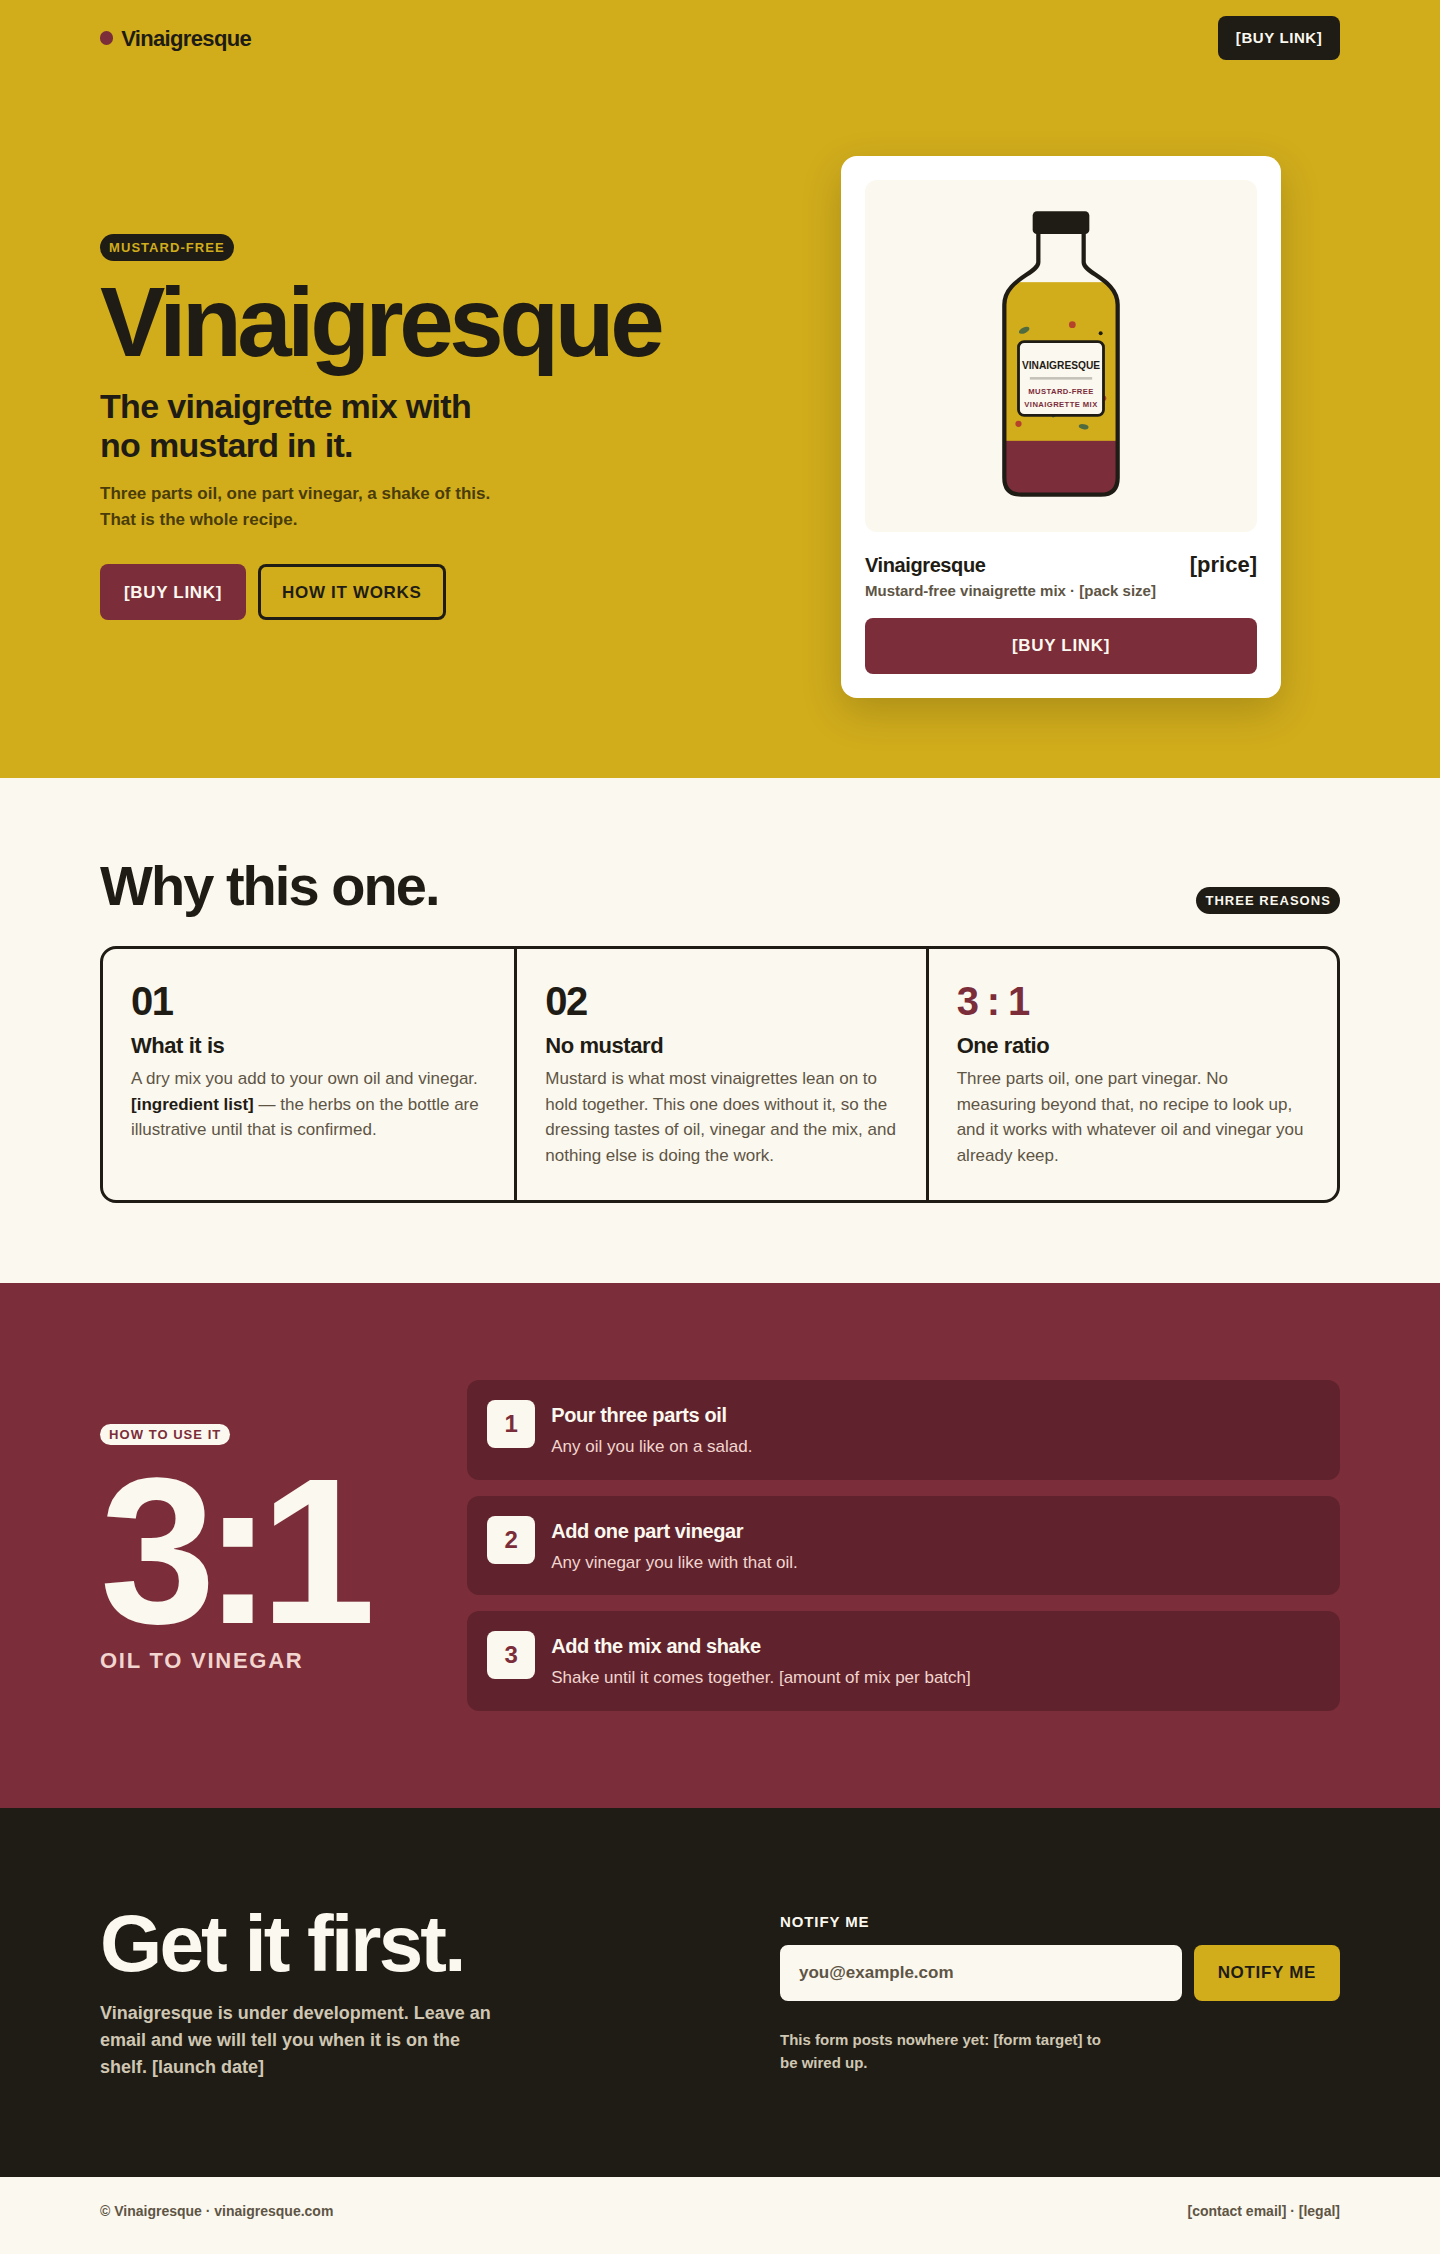
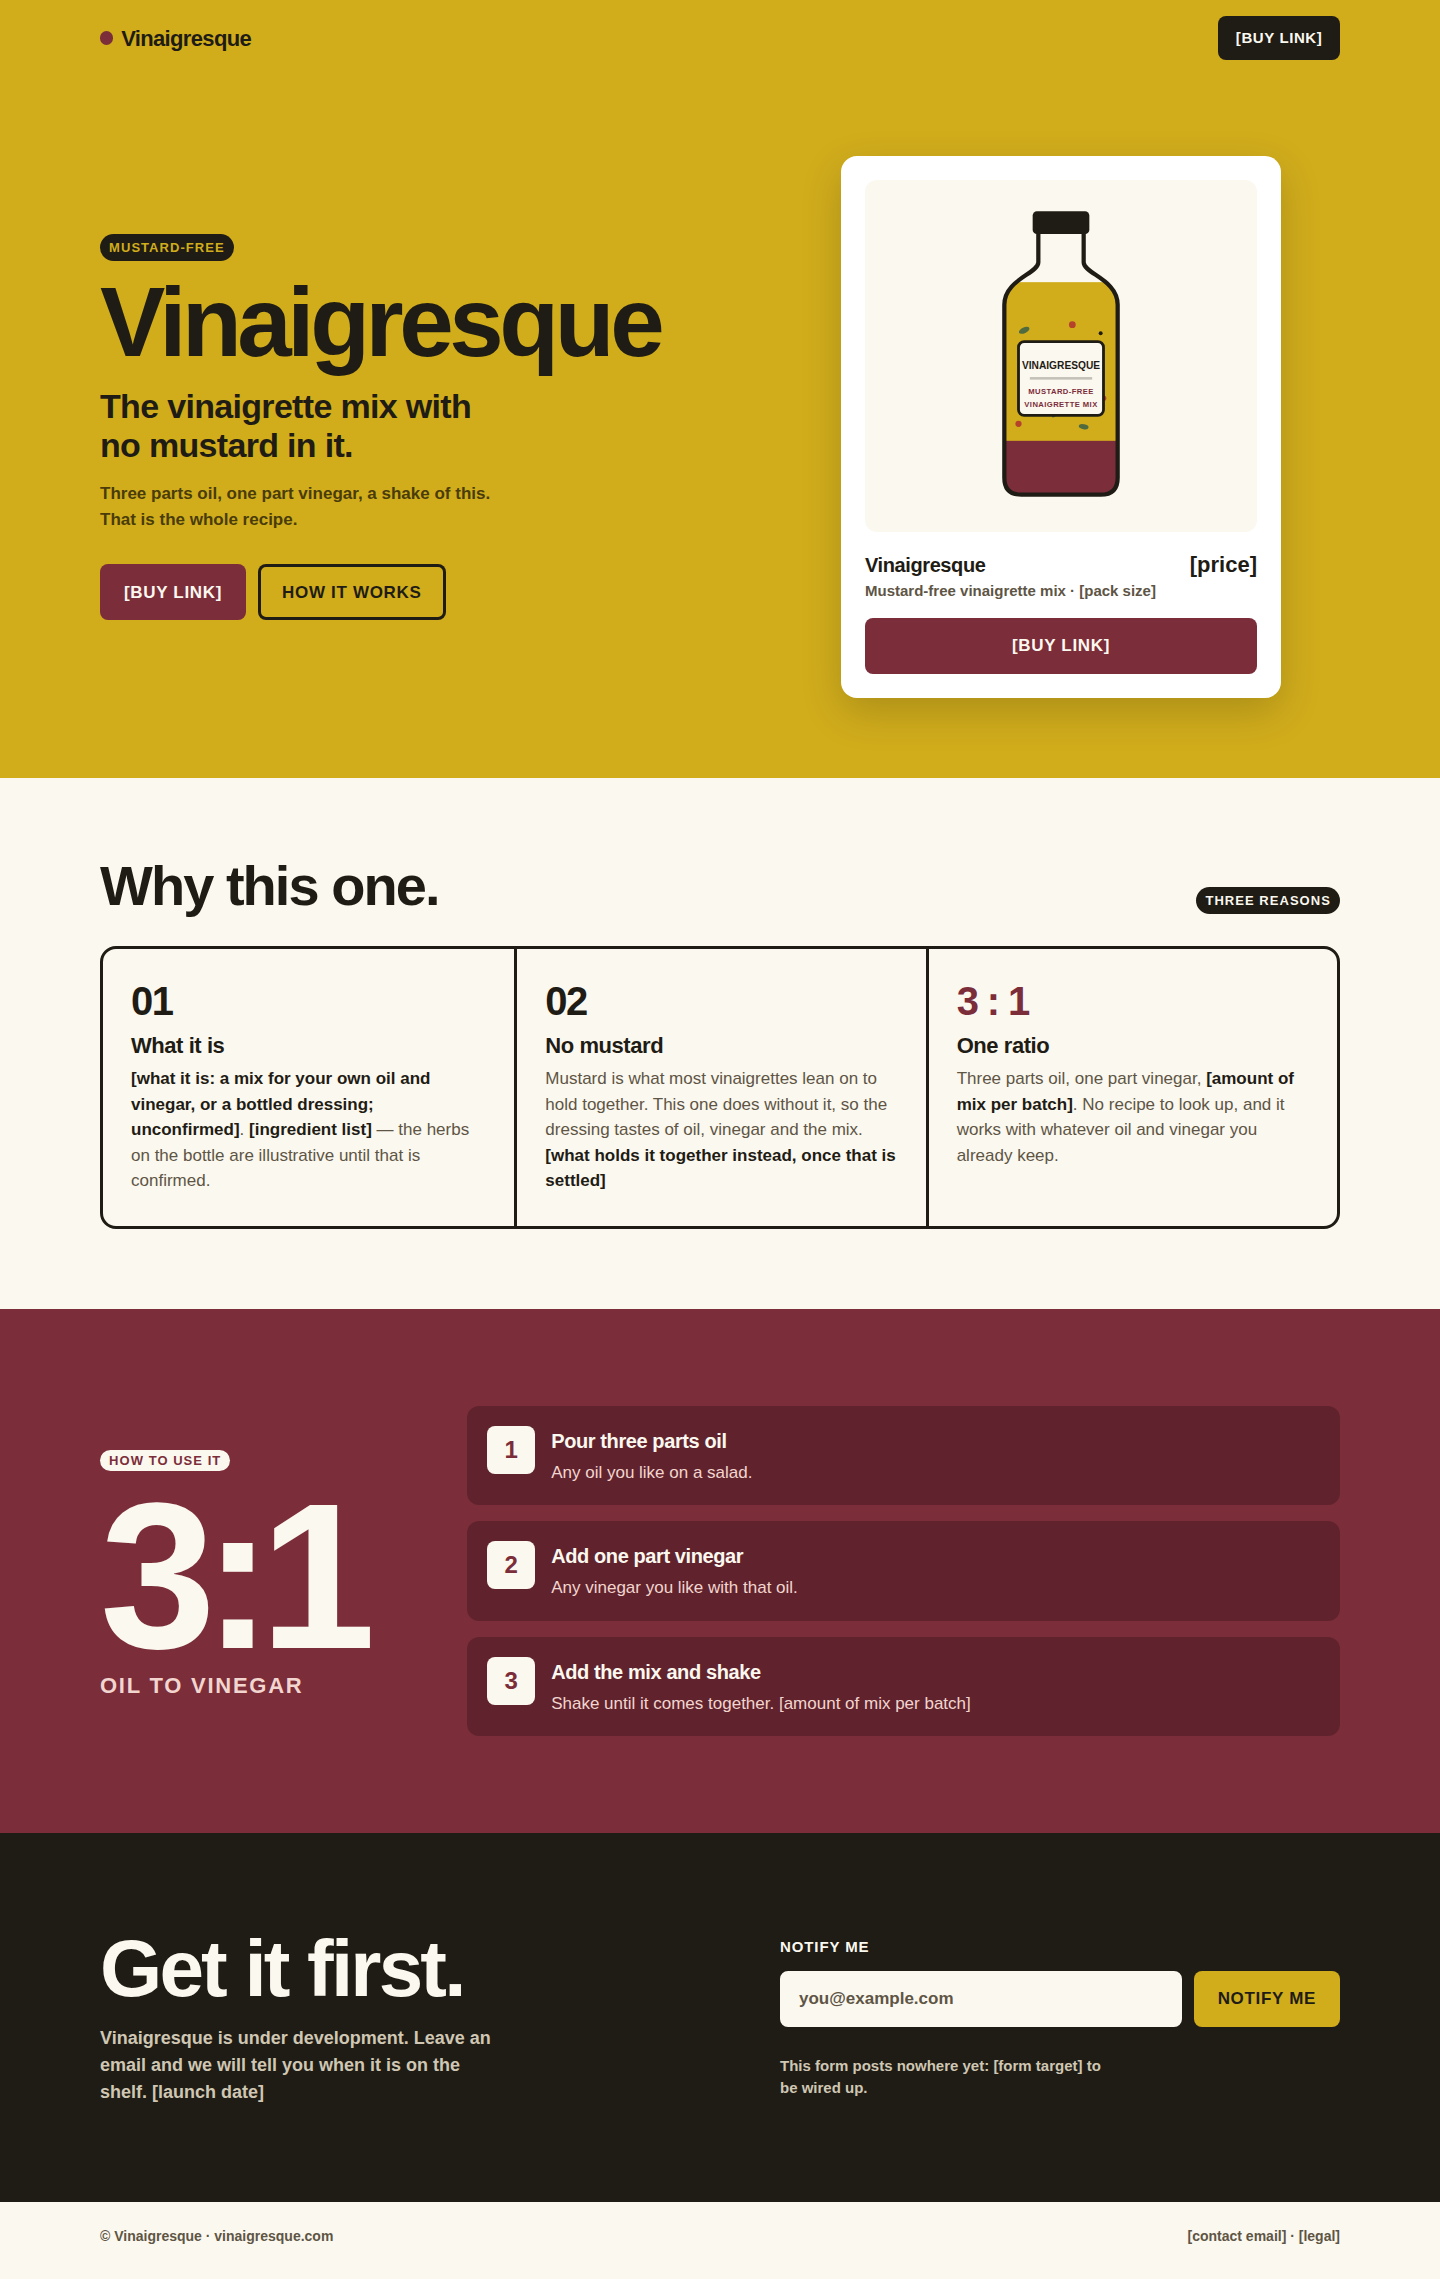
Round 1: address Codex review
- Mustard-free is not emulsifier-free: manifesto no longer says oil and
  vinegar part for want of an emulsifier, and grocer no longer says
  nothing else does the work. Both now leave that to a slot, as label
  already did.
- Product form is unconfirmed: grocer's and kitchen's "what it is"
  sentences are now bracketed slots naming both readings, and the brief
  records the form and the emulsifier as unknowns.
- Grocer's "no measuring beyond that" contradicted its own step 3, which
  needs an amount of mix; the ratio cell now carries the same slot.

Screenshots regenerated for the three pages.

Claude-Session: https://claude.ai/code/session_01LPK6v77uQd8UH9gGXRoUqQ

diff --git a/design/round-1/grocer.html b/design/round-1/grocer.html
@@ -353,17 +353,17 @@
         <li>
           <span class="n">01</span>
           <h3>What it is</h3>
-          <p>A mix you add to your own oil and vinegar. <span class="ph">[ingredient list]</span> — the herbs on the bottle are illustrative until that is confirmed.</p>
+          <p><span class="ph">[what it is: a mix for your own oil and vinegar, or a bottled dressing; unconfirmed]</span>. <span class="ph">[ingredient list]</span> — the herbs on the bottle are illustrative until that is confirmed.</p>
         </li>
         <li>
           <span class="n">02</span>
           <h3>No mustard</h3>
-          <p>Mustard is what most vinaigrettes lean on to hold together. This one does without it, so the dressing tastes of oil, vinegar and the mix, and nothing else is doing the work.</p>
+          <p>Mustard is what most vinaigrettes lean on to hold together. This one does without it, so the dressing tastes of oil, vinegar and the mix. <span class="ph">[what holds it together instead, once that is settled]</span></p>
         </li>
         <li>
           <span class="n ratio">3 : 1</span>
           <h3>One ratio</h3>
-          <p>Three parts oil, one part vinegar. No measuring beyond that, no recipe to look up, and it works with whatever oil and vinegar you already keep.</p>
+          <p>Three parts oil, one part vinegar, <span class="ph">[amount of mix per batch]</span>. No recipe to look up, and it works with whatever oil and vinegar you already keep.</p>
         </li>
       </ul>
     </div>

diff --git a/design/round-1/manifesto.html b/design/round-1/manifesto.html
@@ -278,7 +278,7 @@
       <span class="n"><b>04</b> &nbsp;How to use it</span>
       <span class="ratio" aria-hidden="true">3<span>:</span>1</span>
       <h2 id="s4">Three parts oil. One part vinegar. Shake.</h2>
-      <p>Three parts oil to one part vinegar, and <strong>[amount]</strong> of the mix. Without an emulsifier, oil and vinegar part again when they stand, so give the bottle a shake before each pour. That is the whole method.</p>
+      <p>Three parts oil to one part vinegar, and <strong>[amount]</strong> of the mix. Shake, and dress. That is the whole method.</p>
     </section>
 
     <section class="st col notify" id="notify" aria-labelledby="s5">

diff --git a/design/round-1/kitchen.html b/design/round-1/kitchen.html
@@ -355,8 +355,8 @@
           <li>Keeps <b class="ph">[storage note]</b></li>
         </ul>
 
-        <p class="intro">You bring the oil and the vinegar. Vinaigresque brings the rest:
-          <span class="ph">[ingredient list]</span>.</p>
+        <p class="intro"><span class="ph">[what it is: a mix for your own oil and vinegar, or a bottled
+          dressing; unconfirmed]</span>. Contents: <span class="ph">[ingredient list]</span>.</p>
 
         <h2 id="method" class="mono">Method</h2>
         <ol class="steps ruled">

diff --git a/design/BRIEF.md b/design/BRIEF.md
@@ -27,6 +27,11 @@ self-contained HTML file in `design/round-1/`.
 
 No price, no pack size, no ingredient list, no allergen or health claims, no
 shipping, no stockists, no testimonials, no founder story, no launch date.
+**Not the product's physical form either**: a mix the buyer adds to their own
+oil and vinegar, or a bottled dressing at 3 : 1. The holding page's bottle
+suggests the latter; the 3 : 1 instruction reads as the former. Nor what holds
+it together: only that mustard, the usual emulsifier, is absent. Do not assert
+an emulsifier-free dressing, or a shake that follows from one.
 Where a landing page structurally needs one of these, write **bracketed
 placeholder copy** — e.g. `[price]`, `[ingredient list]`, `[quote from a
 customer]` — so a reader can see at a glance what is real and what is a slot.
